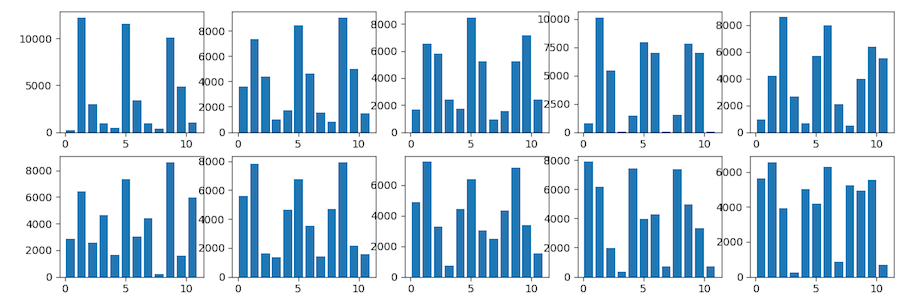
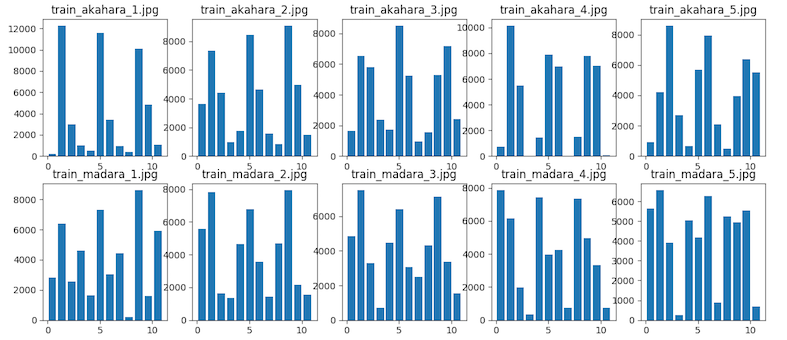
fixed

diff --git a/Question_81_90/answer_84.py b/Question_81_90/answer_84.py
@@ -35,6 +35,7 @@ for i, path in enumerate(train):
     img_h[..., 2] += 8
     plt.subplot(2, 5, i+1)
     plt.hist(img_h.ravel(), bins=12, rwidth=0.8)
+    plt.title(path)
 
 print(db)
 plt.show()
